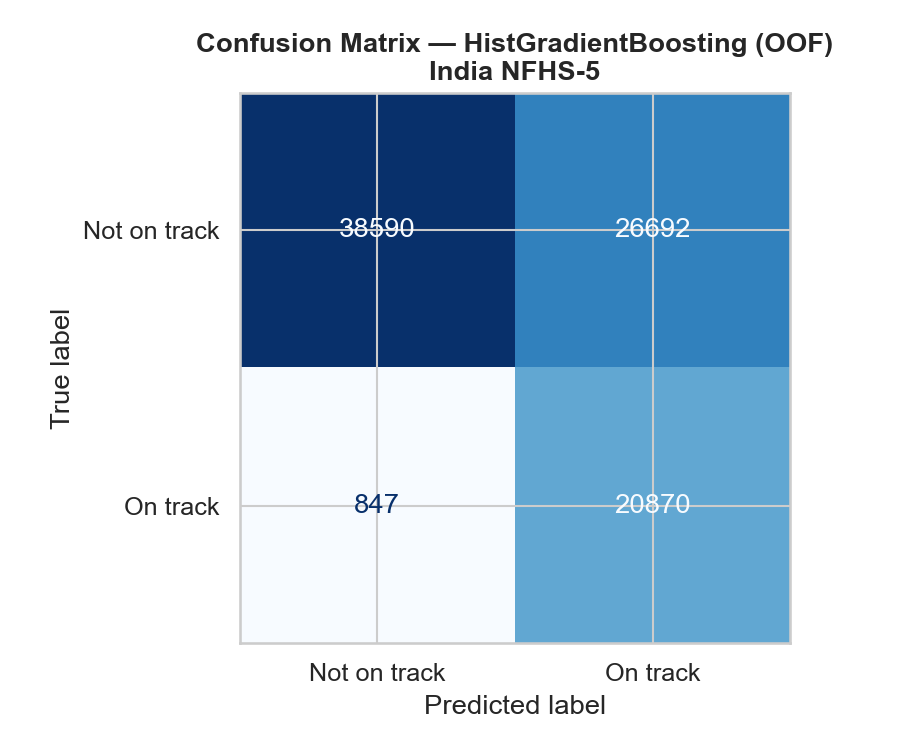
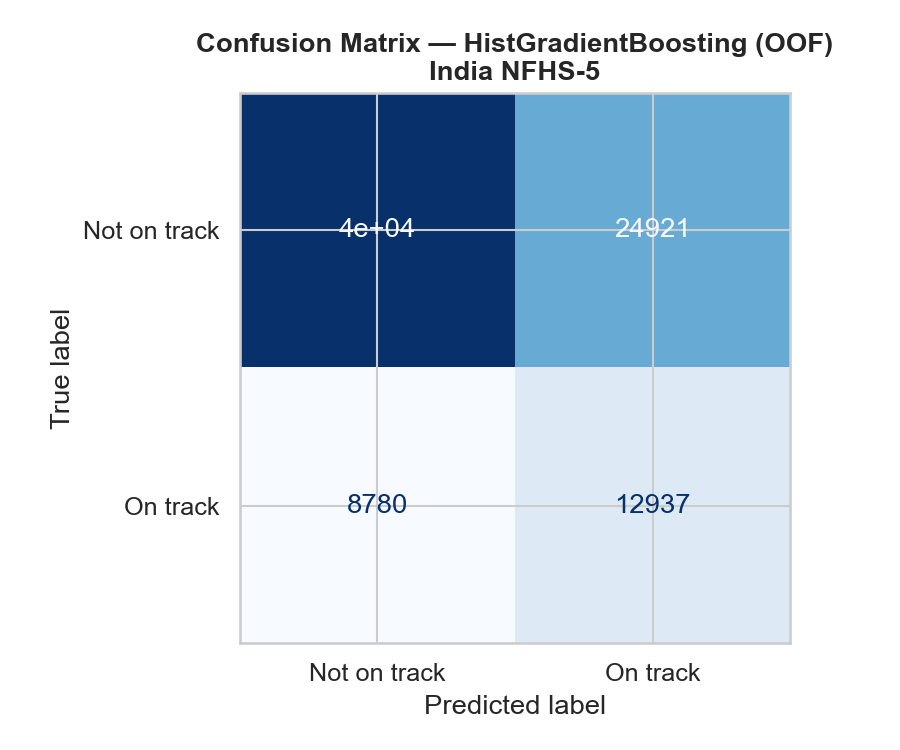
Fix three bugs in pipeline
1. Remove HAZ/WAZ from supervised ML feature set (circular predictor —
   HAZ>-2 directly determines the physical proxy domain outcome). AUC
   corrects from 0.849 to 0.656; top predictors now child age, state,
   mother education.

2. Remove anganwadi_any from features (constant=1 in analysis sample
   since sample is filtered to children with s562 not-null).

3. Fix Moran's I formula: use consistent row-standardised formulation
   (n/S0=1 for row-normalised W). Corrected I=0.421, p=0.001.

Changed region(s): [[0.56, 0.1227, 0.9022, 0.8587], [0.3733, 0.276, 0.4667, 0.3373], [0.3733, 0.644, 0.4667, 0.7053]]

diff --git a/04_supervised_ml.py b/04_supervised_ml.py
@@ -67,12 +67,17 @@ base_features = [
     "is_female",           # sex (female=1)
     "is_urban",            # urban area
     "wealth_index",        # 1–5 wealth quintile
-    "HAZ",                 # height-for-age z-score (stunting)
-    "WAZ",                 # weight-for-age z-score (underweight)
+    # HAZ and WAZ deliberately excluded: HAZ > -2 is a direct component of the
+    # outcome (ecdi_proxy_physical), so including it would create a circular
+    # predictor that partially determines the label it is trying to predict.
+    # WAZ is also excluded for the same reason (highly correlated with HAZ and
+    # partially overlapping with the physical domain definition).
     "mother_edu",          # mother's education (0–5 ordinal)
     "mother_higher_ed",    # mother: complete secondary or higher
     "mother_age",          # mother's age in years
-    "anganwadi_any",       # received any anganwadi benefit
+    # anganwadi_any excluded: it equals 1 for all children in the analysis
+    # sample (s562 is non-null only when s558='yes'), so it is a constant
+    # feature with zero predictive variance.
 ]
 
 state_dummies = [c for c in df.columns if c.startswith("st_")]

diff --git a/06_geospatial.py b/06_geospatial.py
@@ -168,10 +168,13 @@ y_vec = np.array([state_rate_dict[s] for s in states_in_adj])
 y_mean = y_vec.mean()
 y_dev  = y_vec - y_mean
 
-# Moran's I
+# Moran's I (standard formula using row-standardised W)
+# With row-standardised W, S₀ = n (each row sums to 1, n rows),
+# so n/S₀ = 1 and the formula simplifies to:
+#   I = (Σᵢ Σⱼ w*ᵢⱼ·zᵢ·zⱼ) / (Σᵢ zᵢ²)   where w*ᵢⱼ = row-standardised weight
 numerator   = (y_dev @ W_std @ y_dev)
 denominator = (y_dev @ y_dev)
-I = (n / W.sum()) * (numerator / denominator)
+I = numerator / denominator   # n/S₀ = 1 for row-standardised W
 
 # Permutation test
 np.random.seed(42)
@@ -180,8 +183,7 @@ I_perm = []
 for _ in range(n_perm):
     y_perm = np.random.permutation(y_vec)
     y_perm_dev = y_perm - y_perm.mean()
-    I_perm.append((n / W.sum()) *
-                  (y_perm_dev @ W_std @ y_perm_dev) / (y_perm_dev @ y_perm_dev))
+    I_perm.append((y_perm_dev @ W_std @ y_perm_dev) / (y_perm_dev @ y_perm_dev))
 p_value = (np.sum(np.array(I_perm) >= I) + 1) / (n_perm + 1)
 
 print(f"\nMoran's I Spatial Autocorrelation")

diff --git a/README.md b/README.md
@@ -40,18 +40,20 @@ full ECDI2030 framework.
 ### Supervised ML Performance (5-fold CV)
 | Model | ROC-AUC | F1 |
 |---|---|---|
-| Logistic Regression | **0.784 ± 0.003** | 0.556 ± 0.002 |
-| HistGradientBoosting | **0.849 ± 0.002** | 0.603 ± 0.003 |
+| Logistic Regression | **0.656 ± 0.003** | 0.438 ± 0.003 |
+| HistGradientBoosting | **0.656 ± 0.004** | 0.434 ± 0.004 |
+
+Note: HAZ/WAZ excluded from feature set — HAZ > −2 is a direct component of the outcome (physical proxy domain), so inclusion would create circular prediction. The AUC of ~0.656 reflects honest predictive power of socioeconomic context variables alone.
 
 ### Top 5 SHAP Predictors (HistGradientBoosting)
-1. **Height-for-age z-score (HAZ)** — strongest predictor (directly in composite)
-2. State: Meghalaya (very low ECCE attendance)
-3. Child age (months)
-4. State: Nagaland (near-zero anganwadi attendance in sample)
-5. State: Gujarat (high anganwadi attendance)
+1. **Child age (months)** — older children more likely to be on track
+2. **State: Meghalaya** — very low ECCE attendance
+3. **State: Nagaland** — near-zero anganwadi attendance
+4. **Mother's education (ordinal)** — strong protective factor
+5. **State: Uttar Pradesh** — large state with low rates
 
 ### Geospatial Analysis (State-Level)
-- **Moran's I = 0.1045**, p = 0.001 (999 permutations) — significant spatial clustering
+- **Moran's I = 0.421**, p = 0.001 (999 permutations) — significant spatial clustering
 - **Highest on-track states**: Andaman & Nicobar Islands (47%), West Bengal (43%), Odisha (42%), Gujarat (40%)
 - **Lowest on-track states**: Nagaland (0.3%), Manipur (4.9%), Meghalaya (8.5%)
   - *Note: Very low values in Northeast states reflect near-zero anganwadi attendance in this sample,
@@ -107,9 +109,9 @@ nutritional status are largely independent in India.
 | Framework | ECDI2030 (direct items) | ECDI2030 proxy (2 domains) |
 | Sample size | 2,799 (complete ECDI) | 86,999 (proxy composite) |
 | On-track rate | 12.6% | 25.0% |
-| HGB AUC | 0.663 | 0.849 |
-| Top predictor | Child age (SHAP) | HAZ z-score (SHAP) |
-| Spatial clustering | Moran's I=0.098, p=0.166 | Moran's I=0.105, p=0.001 |
+| HGB AUC | 0.663 | 0.656 |
+| Top predictor | Child age (SHAP) | Child age / state (SHAP) |
+| Spatial clustering | Moran's I=0.098, p=0.166 | Moran's I=0.421, p=0.001 |
 | Administrative unit | Province (7) | State (36) |
 
 ---
